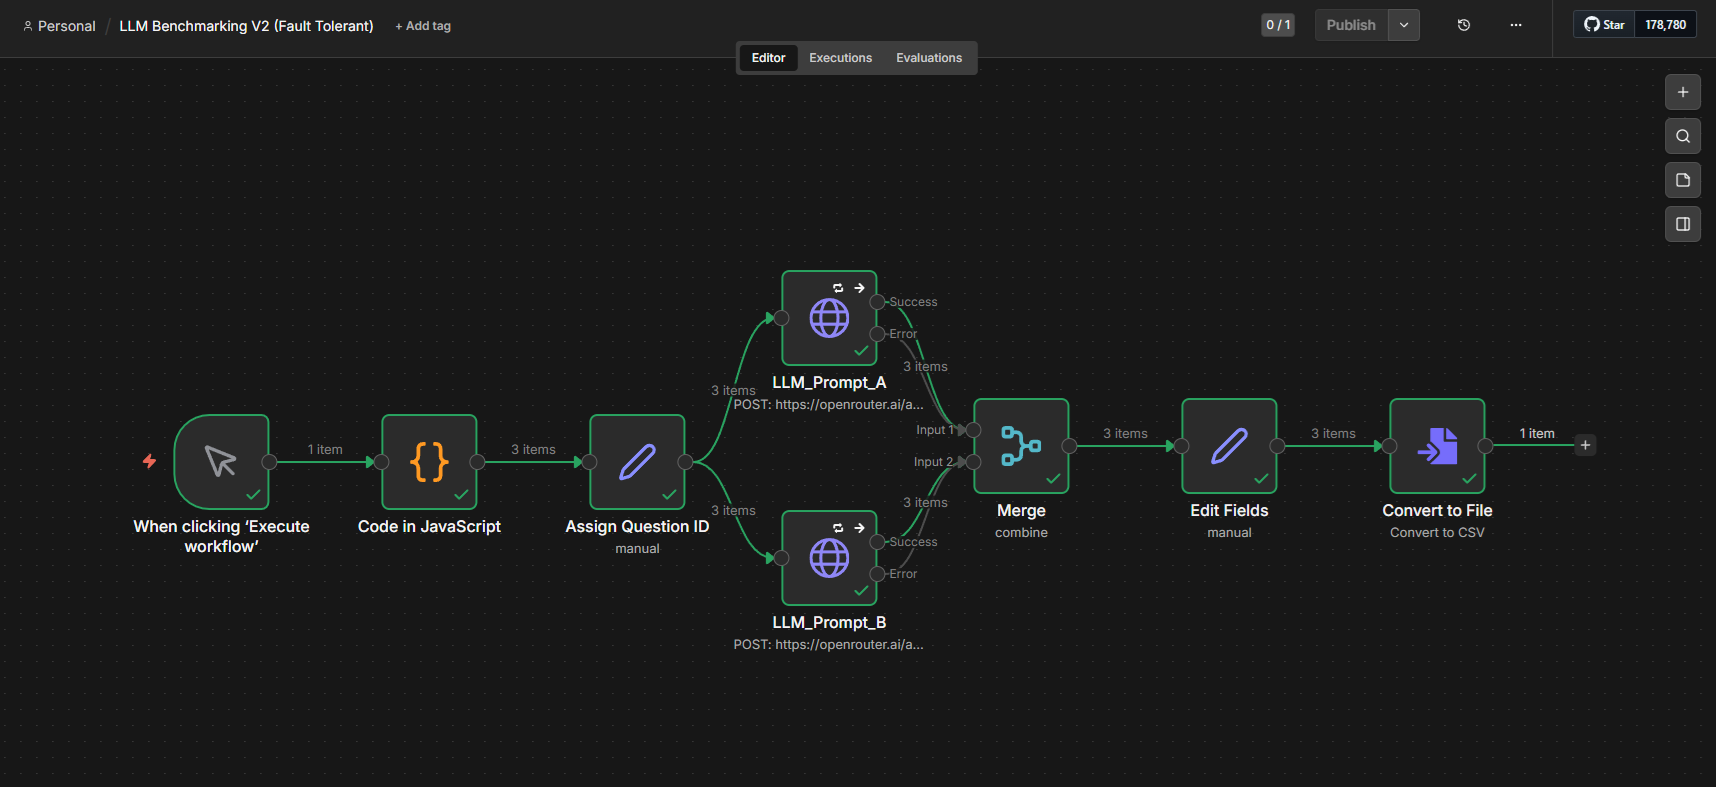
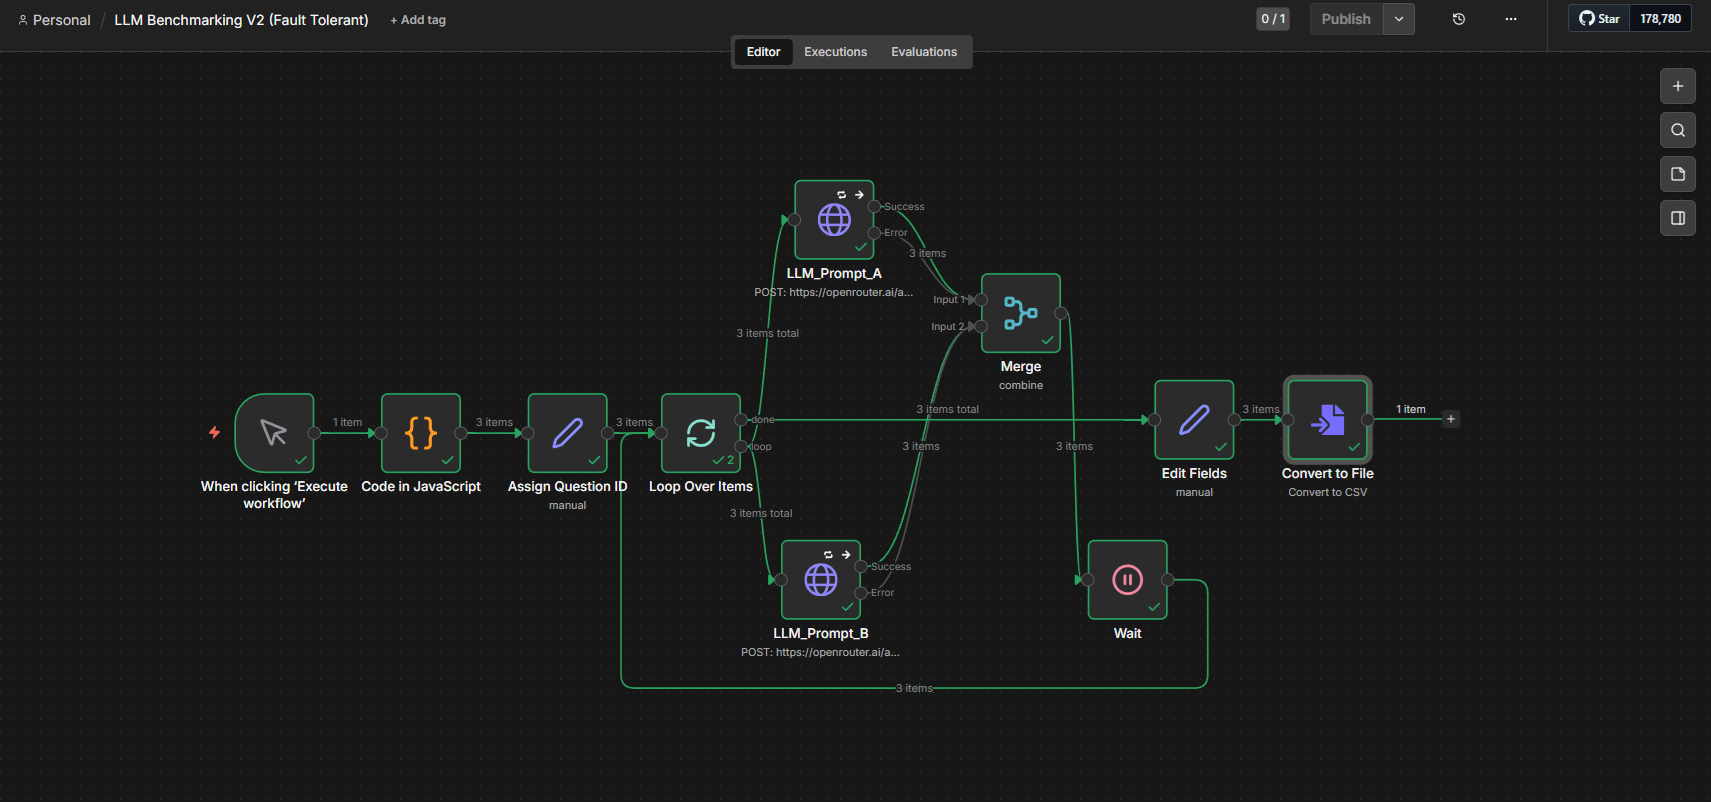
v2.1: Added batching to n8n, temperature=0 to LLM judge, and exported workflow JSON

diff --git a/judge.py b/judge.py
@@ -42,7 +42,8 @@ def evaluate_pair(question, ideal, a, b):
     payload = {
         "model": "google/gemini-2.0-flash-lite-001",
         "messages": [{"role": "user", "content": prompt}],
-        "response_format": { "type": "json_object" }
+        "response_format": { "type": "json_object" },
+        "temperature": 0
     }
     
     try:

diff --git a/README.md b/README.md
@@ -6,7 +6,7 @@
 
 Проект объединяет гибкость low-code автоматизации и мощь Python-аналитики:
 
-1.  **Сбор данных (n8n):** Воркфлоу параллельно опрашивает разные модели, контролирует ошибки API и собирает результаты в единый CSV-датасет.
+1.  **Сбор данных (n8n):** Воркфлоу параллельно опрашивает разные модели, собирает результаты в CSV и защищен от API-лимитов (Too Many Requests) с помощью системы Batching (очередей) и Throttling (задержек).
 2.  **Аналитика (Python + Pandas):** Скрипт-судья проводит кросс-валидацию ответов по эталону, начисляет штрафные баллы и генерирует наглядный отчет.
 
 ---
